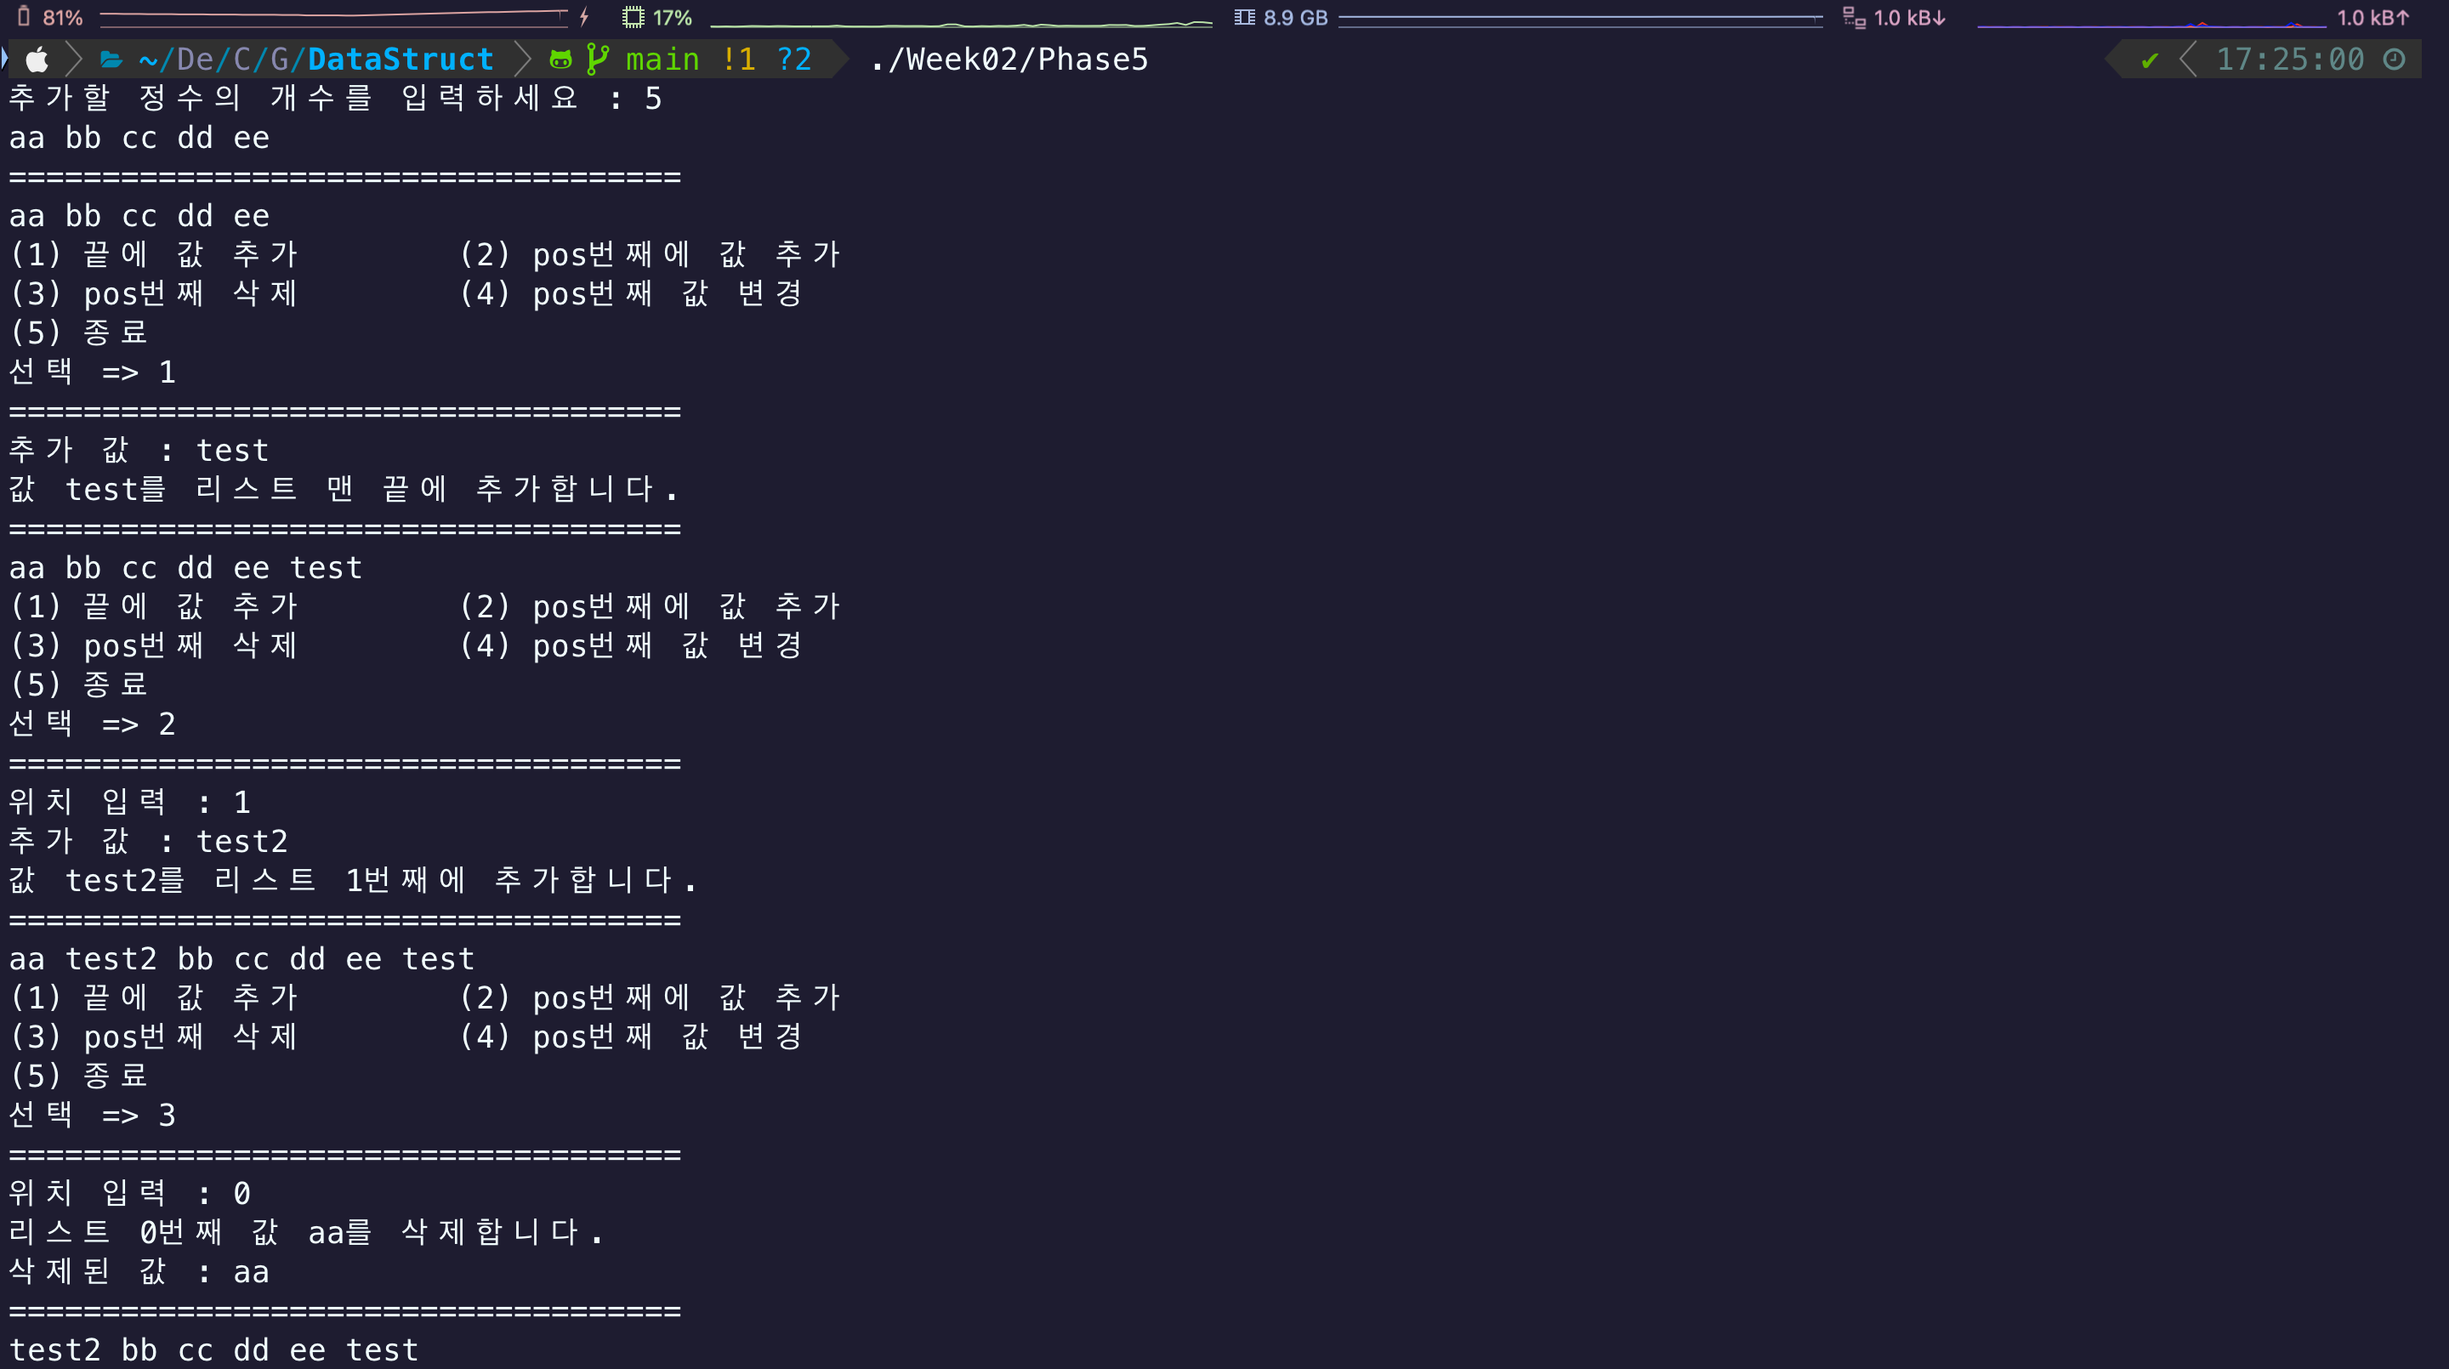
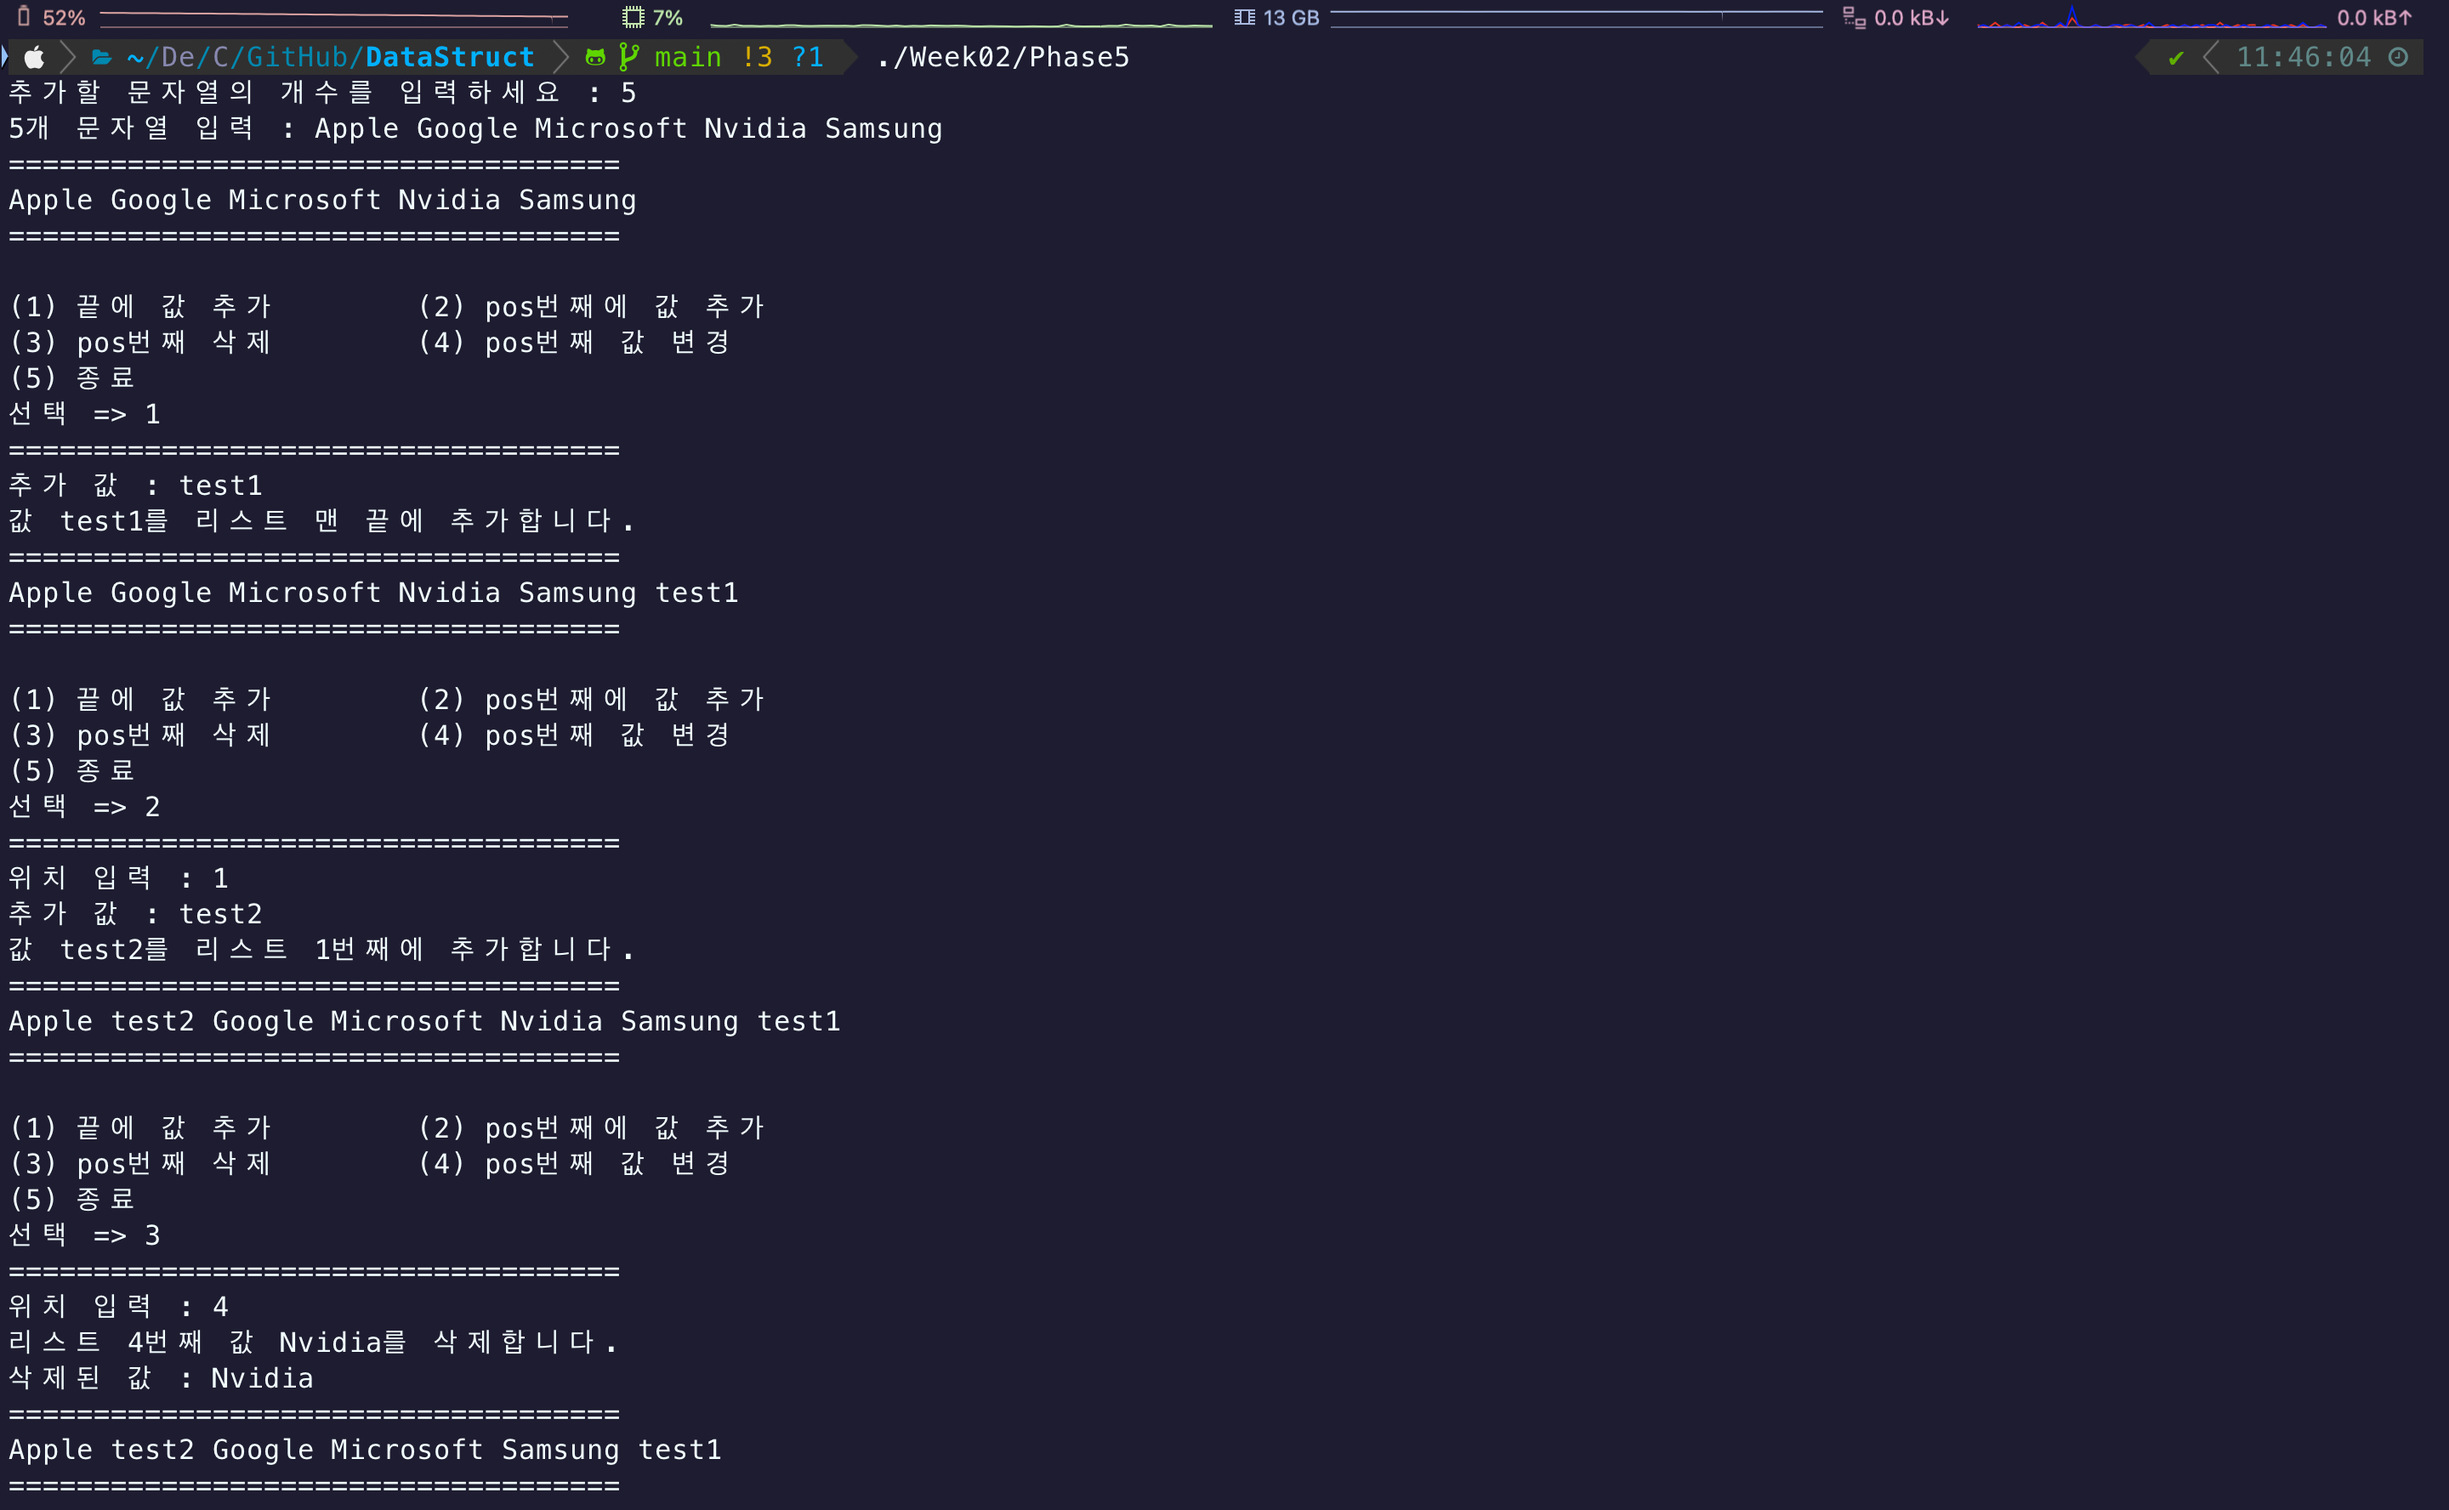
자료구조 Stack 구현 업데이트

Changed region(s): [[0.0, 0.0, 1.0, 0.9938]]

diff --git a/Week05/SubUtils.c b/Week05/SubUtils.c
@@ -1,0 +1,38 @@
+#include <stdio.h>
+#include <math.h>
+#include "SubUtils.h"
+
+// Line Print
+void getLine(int n) {
+    for(int i = 1; i <= n; i++) printGrad("=");
+    printf("\n");
+}
+
+// Terminal Gradation Text Color
+void printGrad(const char* str) { // 문자열 리터럴 파라미터로 받음
+    int r, g, b;
+    double freq = 0.05; // 주파수 0.05 (20초에 1번)
+    for(int i = 0; str[i] != '\0';) {
+        r = (sin(freq * i + 0) * 127) + 128; // sin[-1 ~ 1] * 127 = (-127 ~ 127)
+        g = (sin(freq * i + 1) * 127) + 128; // (-127 ~ 127) + 128 = (1 ~ 255)
+        b = (sin(freq * i + 2) * 127) + 128; // 24Bit(RGB) = 0~255, 0~255, 0~255
+        if ((str[i] & 0x80) != 0) { // ASCII를 제외한 1바이트를 넘는 문자는 1000 0000 형태로 앞이 항상 1임
+            printf("\033[38;2;%d;%d;%dm%.3s", r, g, b, &str[i]); // UTF-8 때문에 3바이트 씩 read
+            i += 3; // 3Byte
+        } else {
+            printf("\033[38;2;%d;%d;%dm%c", r, g, b, str[i]); // ASCII라면 1바이트씩
+            i++; // 1Byte
+        }
+    }
+    printf("\033[0m"); // 컬러 초기화
+}
+
+// Input the Only Number
+int onlyNumber(int *num) {
+    if (scanf("%d", num) != 1) { // 숫자가 아니면 1 (숫자가 맞으면 0)
+        printf(RED "숫자만 입력해주세요.\n" RESET);
+        while (getchar() != '\n') continue; // New Line(\n) 까지 버퍼 비움
+        return 1; // 숫자가 아님
+    }
+    return 0; // 숫자임
+}

diff --git a/Week05/Stack.c b/Week05/Stack.c
@@ -1,0 +1,47 @@
+#include <stdio.h>
+#include <stdlib.h>
+#include "Stack.h"
+
+void init_stack(stk_t* st) {
+    st->capacity = MAX_STACK_SIZE;
+    st->data = (elem_int*)malloc(sizeof(elem_int) * st->capacity);
+    st->top = 0;
+    for(int i = 0; i < st->capacity; i++) st->data[i] = 0;
+}
+
+elem_int is_empty(stk_t* st) {
+    return (st->top == 0);
+}
+
+elem_int is_pull(stk_t* st) {
+    return (st->top == st->capacity);
+}
+
+void push(stk_t* st, elem_int data) {
+    // if (is_pull(st)) { fprintf(stderr, "스택 pull 에러\n"); return STACK_ERROR; }
+    if (is_pull(st)) {
+        st->capacity *= 2; // 스택이 full이면 용량을 2배 늘림
+        st->data = (elem_int*)realloc(st->data, (sizeof(elem_int) * st->capacity));
+        // realloc을 사용해 스택 용량 2배로 다시 할당
+    }
+    st->data[st->top++] = data;
+}
+
+elem_int pop(stk_t* st) {
+    if (is_empty(st)) { fprintf(stderr, "스택 empty 에러 (스택이 텅텅 비었음)\n"); return STACK_ERROR; }
+    return st->data[--st->top];
+}
+
+elem_int peek(stk_t* st) {
+    if (is_empty(st)) { fprintf(stderr, "스택 empty 에러 (스택이 텅텅 비었음)\n"); return STACK_ERROR; }
+    return st->data[st->top - 1];
+}
+
+void print_stack(stk_t* st) {
+    for(int i = 0; i < st->top; i++) printf("%4d", st->data[i]);
+    //printf("\n");
+}
+
+void free_stack(stk_t* st) {
+    free(st->data);
+}

diff --git a/Week05/StackMain.c b/Week05/StackMain.c
@@ -1,0 +1,37 @@
+#include <stdio.h>
+#include "Stack.h"
+#include "SubUtils.h"
+
+int main(void) {
+    elem_int menu, val;
+    elem_int p_val;
+    stk_t stack;
+
+    init_stack(&stack);
+    printGrad("< 현재 Stack 공간 >\n");
+    printGrad("["); for(int i = 0; i < stack.capacity; i++) printf("%3d", stack.data[i]); printGrad(" ]\n");
+    while (1) {
+        if (stack.top > 0) {
+            getLine(50); printGrad("<STACK> ["); print_stack(&stack); printGrad(" ]\n");
+        }
+        getLine(50);
+        printGrad("(1) 스택 push\t(2) 스택 pop\n");
+        printGrad("(3) 스택 peek\t(4) 종료\n");
+        printGrad("=> "); if(onlyNumber(&menu)) continue;
+        if (menu == 4) break;
+        switch (menu) {
+        case 1:
+            getLine(50); printGrad("push > "); if(onlyNumber(&val)) continue;
+            push(&stack, val); break;
+        case 2:
+            p_val = pop(&stack);
+            if (p_val != -1) { getLine(50); printf("[pop] top에 있던 값 %d이 pop 되었습니다.\n", p_val); } break;
+        case 3:
+            p_val = peek(&stack);
+            if (p_val != -1) { getLine(50); printf("[peek] top에 있던 값 %d이 peek 되었습니다.\n", p_val); } break;
+        default: printf(RED "1 ~ 4 중 하나를 선택해주세요.\n"); break;
+        }
+    }
+
+    return 0;
+}

diff --git a/Week05/Stack.h b/Week05/Stack.h
@@ -1,0 +1,20 @@
+#pragma once
+#define MAX_STACK_SIZE 16
+#define STACK_ERROR -1
+
+typedef int elem_int; // 정수 타입 자료형을 elem_int로 정의
+typedef struct Stack {
+    // elem_int data[MAX_STACK_SIZE]; // 스택 공간
+    elem_int* data; // 동적 할당을 위한 스택 포인터 변수
+    elem_int top; // top 변수 (기본 0)
+    elem_int capacity; // 스택 용량(크기) 변수
+} stk_t;
+
+void init_stack(stk_t* st); // 스택 초기화
+elem_int is_empty(stk_t* st); // 스택이 비었는가
+elem_int is_pull(stk_t* st); // 스택이 가득 찼는가
+void push(stk_t* st, elem_int data); // 스택에 push 하기
+elem_int pop(stk_t* st); // 스택에 pop 하기
+elem_int peek(stk_t* st); // 스택에 peek 하기
+void print_stack(stk_t* st); // 스택 공간 출력
+void free_stack(stk_t* st); // 스택 공간 메모리 반납

diff --git a/Week02/Phase5.c b/Week02/Phase5.c
@@ -28,8 +28,9 @@ char* elem[MAX];
 int main(void) {
     srand(time(NULL));
 
-    printf("추가할 정수의 개수를 입력하세요 : ");
+    printf("추가할 문자열의 개수를 입력하세요 : ");
     if (only_num(&size)) return 0;
+    printf("%d개 문자열 입력 : ", size);
     input_list();
     run_menu();
     free_list();
@@ -42,7 +43,8 @@ void run_menu() {
     int pos;
     while (1) {
         get_line(DEFVAL);
-        print_list();
+        print_list(); printf("\n");
+        get_line(DEFVAL);
         printf("\n(1) 끝에 값 추가\t(2) pos번째에 값 추가\n");
         printf("(3) pos번째 삭제\t(4) pos번째 값 변경\n");
         printf("(5) 종료\n");

diff --git a/Week05/SubUtils.h b/Week05/SubUtils.h
@@ -1,0 +1,15 @@
+#pragma once
+
+// Terminal Text Colors
+#define YELLOW "\033[33m"
+#define BLUE "\033[34m"
+#define RED "\033[31m"
+#define GREEN "\033[32m"
+#define GRAY "\033[0;37m"
+#define RESET "\033[0m"
+#define DEF_LINE_COUNT 36
+
+// Sub Util Functions
+void getLine(int n);
+void printGrad(const char* str);
+int onlyNumber(int* num);

diff --git a/README.md b/README.md
@@ -39,3 +39,33 @@
 - ["Separate/Arrlist.c"](./Week03/Separate/Arrlist.c)
 
 ---
+
+## 4. Stack Implimentation (<u>Week05</u>)
+> [ Stack example ]
+> ![Terminal](./Week05/Stack.png)
+### 4-1) Stack ADT structure
+> [ Stack ADT Struct & Functions ]
+>```c
+>typedef int elem_int; // 정수 타입 자료형을 elem_int로 정의
+>typedef struct Stack {
+>    int* data; // 동적 할당을 위한 스택 포인터 변수
+>    int top; // top 변수 (기본 0)
+>    int capacity; // 스택 용량(크기) 변수
+>} stk_t;
+>
+>void init_stack(stk_t* st); // 스택 초기화
+>int is_empty(stk_t* st); // 스택이 비었는가
+>int is_pull(stk_t* st); // 스택이 가득 찼는가
+>void push(stk_t* st, int data); // 스택에 push 하기
+>int pop(stk_t* st); // 스택에 pop 하기
+>int peek(stk_t* st); // 스택에 peek 하기
+>void print_stack(stk_t* st); // 스택 공간 출력
+>void free_stack(stk_t* st); // 스택 공간 메모리 반납
+>```
+- ["Week05/Stack.h"](./Week05/Stack.h)
+- ["Week05/Stack.c"](./Week05/Stack.c)
+- ["Week05/StackMain.c"](./Week05/StackMain.c)
+> [ StackMain on Terminal ]
+> ![Terminal](./Week05/Terminal1.png)
+
+---
